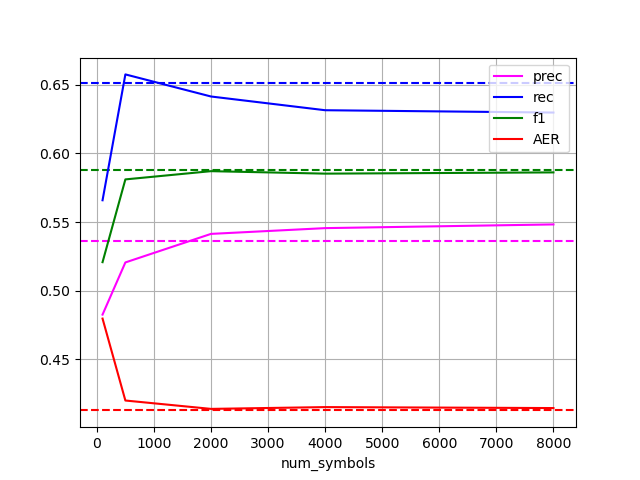
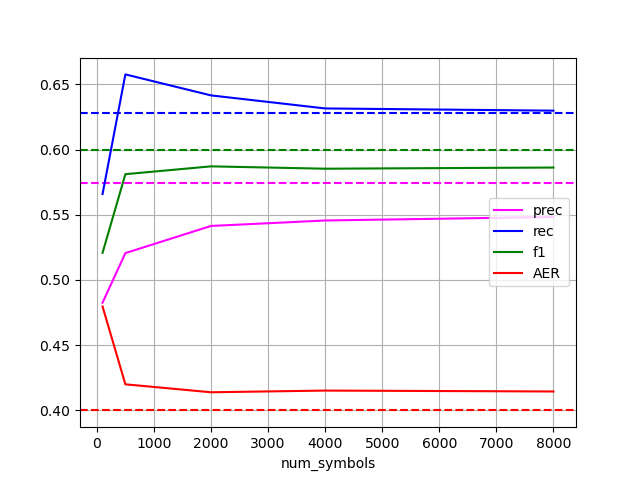
averaged dropout scores
plots and csvs

diff --git a/avg_scores.py b/avg_scores.py
@@ -1,11 +1,22 @@
 import os
-import glob
 import codecs
 import random
 import inspect
 import pandas as pd
 
 from calc_align_score import load_gold, calc_score, plot_scores
+
+def get_baseline_score(currentdir):
+    gold_path = os.path.join(currentdir, 'pbc_utils/data/eng_deu/eng_deu.gold')
+    alfile = os.path.join(currentdir, 'data/fastalign/input.gdfa')
+    probs, surs, surs_count = load_gold(gold_path)
+
+    scores = []
+    score = [0]
+    score.extend(list(calc_score(alfile, probs, surs, surs_count)))
+    scores.append(score)
+    baseline_df = pd.DataFrame(scores, columns=['num_symbols', 'prec', 'rec', 'f1', 'AER'])
+    return baseline_df
 
 if __name__ == "__main__":
     currentdir = os.path.dirname(os.path.abspath(inspect.getfile(inspect.currentframe())))
@@ -15,37 +26,32 @@ if __name__ == "__main__":
     avgs = [3, 5, 7, 10]
     for i in avgs:
 
-        df = pd.DataFrame()
-        '''
+        # get random i indexes
+        random_idx = set()
+        while len(random_idx) < i:
+            random_idx.add(random.randrange(10))
+
         # baseline score
-        gold_path = os.path.join(currentdir, 'pbc_utils/data/eng_deu/eng_deu.gold')
-        probs, surs, surs_count = load_gold(gold_path)
+        baseline_df = get_baseline_score(currentdir)
+        df = pd.DataFrame()
 
-        scores = []
-        alfile = os.path.join(datapath, 'fastalign/input.gdfa')
-        score = [0]
-        score.extend(list(calc_score(alfile, probs, surs, surs_count)))
-        scores.append(score)
-       	df = pd.DataFrame(scores, columns=['num_symbols', 'prec', 'rec', 'f1', 'AER'])
-        '''
+        for rd_idx in list(random_idx):
 
-        for alfile in glob.glob("*.csv"):
+            df2 = pd.read_csv(os.path.join(datapath, 'scores_'+str(rd_idx)+'.csv'))
 
-            if random.uniform(0, 10) > i:
-                continue
-
-            # read score .csv and average
-            df2 = pd.read_csv(alfile)
-            for col in list(df2)[1:]:
-                df2[col] = df2[col].apply(lambda x: x/i)
-            
-
+            # first step of the iteration, just get the whole dataframe
             if df.empty:
                 df = df2
                 continue
             
-            for col in list(df)[1:]:
-                df[col] = df[col] + df2[col]
+            for col in list(df2)[1:]:
+                df[col] += df2[col]
+        
+        # divide all by \# elements added, to get average
+        for col in list(df)[1:]:
+            df[col] = df[col].apply(lambda x: x/i)
+    
+        df = pd.concat([baseline_df, df])
 
         plot_name = 'scores_avg_'+str(i)
         plot_scores(df, datapath+'/avg', plot_name)

diff --git a/calc_align_score.py b/calc_align_score.py
@@ -25,7 +25,7 @@ def load_gold(g_path):
 		all_count += len(pros[line[0]])
 		surs_count += len(surs[line[0]])
 
-	print("number of gold align sentences:", len(pros), "\n")
+	#print("number of gold align sentences:", len(pros), "\n")
 	return pros, surs, surs_count
 
 
